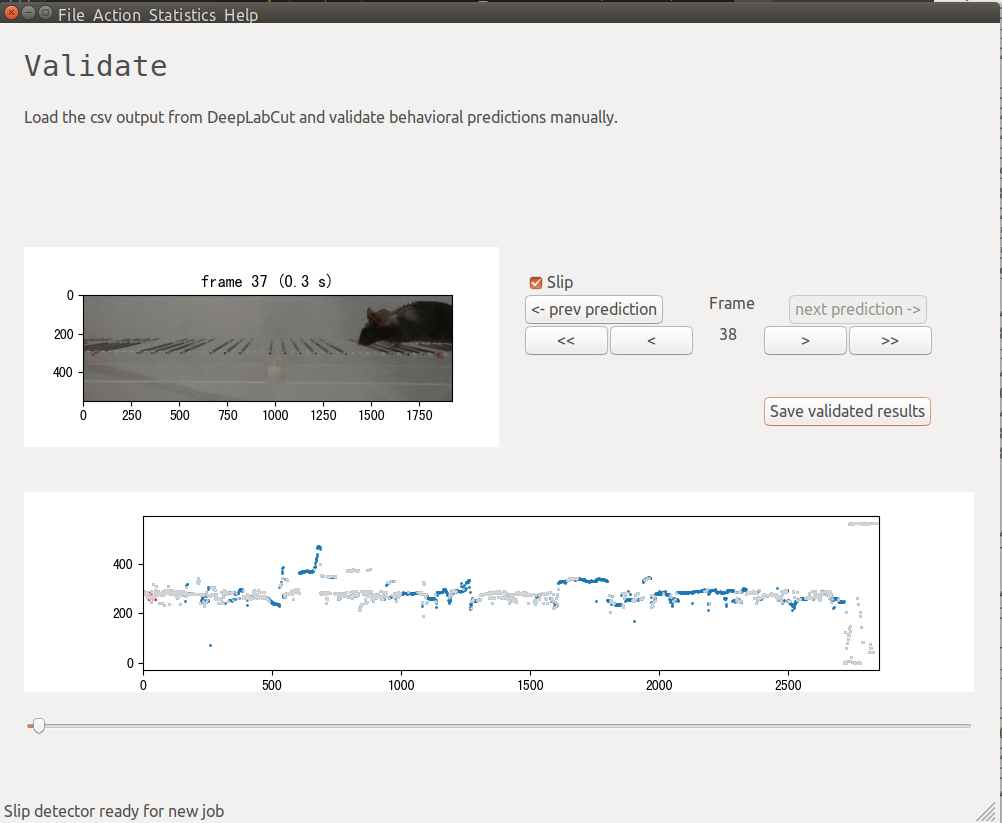
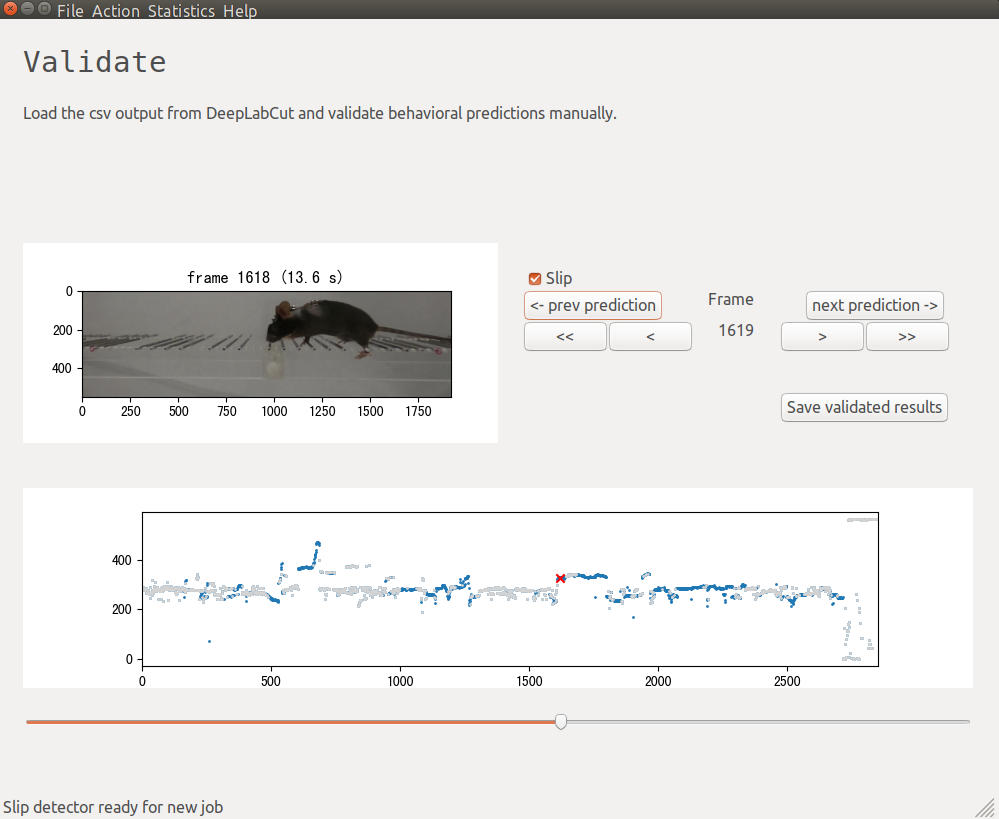
fix list copy related error

diff --git a/Panels/Validate.py b/Panels/Validate.py
@@ -237,8 +237,7 @@ class ValidatePanel(wx.Panel):
 
 
         # initialize validation results
-        # n_val, depth_val, t_val, start_val, end_val = self.n_pred, [], [], [], []
-        self.n_val, self.depth_val, self.t_val, self.start_val, self.end_val = self.n_pred, self.depth_pred, self.t_pred, self.start_pred, self.end_pred
+        self.n_val, self.depth_val, self.t_val, self.start_val, self.end_val = self.n_pred, self.depth_pred[:], self.t_pred[:], self.start_pred[:], self.end_pred[:]
 
         # display frame from video
         frame = ValidateFunctions.plot_frame(self.video, 10, 
@@ -330,7 +329,7 @@ class ValidatePanel(wx.Panel):
 
         if isChecked:
             if self.n_frame not in self.t_pred:
-                self.n_val +=1
+                self.n_val += 1
                 self.t_val.append(self.n_frame)
                 self.depth_val.append(np.nan)
                 self.start_val.append(np.nan)
@@ -382,7 +381,7 @@ class ValidatePanel(wx.Panel):
             self.GetParent().Layout()
             print(self.n_frame)
             print(self.n_frame in self.t_pred)
-            if self.n_frame in self.t_pred:
+            if self.n_frame in self.t_val:
                 self.checkbox.SetValue(True)
             else:
                 self.checkbox.SetValue(False)
@@ -427,7 +426,7 @@ class ValidatePanel(wx.Panel):
             # self.GetParent().Layout()
             print(self.n_frame)
             print(self.n_frame in self.t_pred)
-            if self.n_frame in self.t_pred:
+            if self.n_frame in self.t_val:
                 self.checkbox.SetValue(True)
             else:
                 self.checkbox.SetValue(False)
@@ -474,7 +473,7 @@ class ValidatePanel(wx.Panel):
             # self.GetParent().Layout()
             print(self.n_frame)
             print(self.n_frame in self.t_pred)
-            if self.n_frame in self.t_pred:
+            if self.n_frame in self.t_val:
                 self.checkbox.SetValue(True)
             else:
                 self.checkbox.SetValue(False)
@@ -530,7 +529,7 @@ class ValidatePanel(wx.Panel):
             # self.GetParent().Layout()
             print(self.n_frame)
             print(self.n_frame in self.t_pred)
-            if self.n_frame in self.t_pred:
+            if self.n_frame in self.t_val:
                 self.checkbox.SetValue(True)
             else:
                 self.checkbox.SetValue(False)
